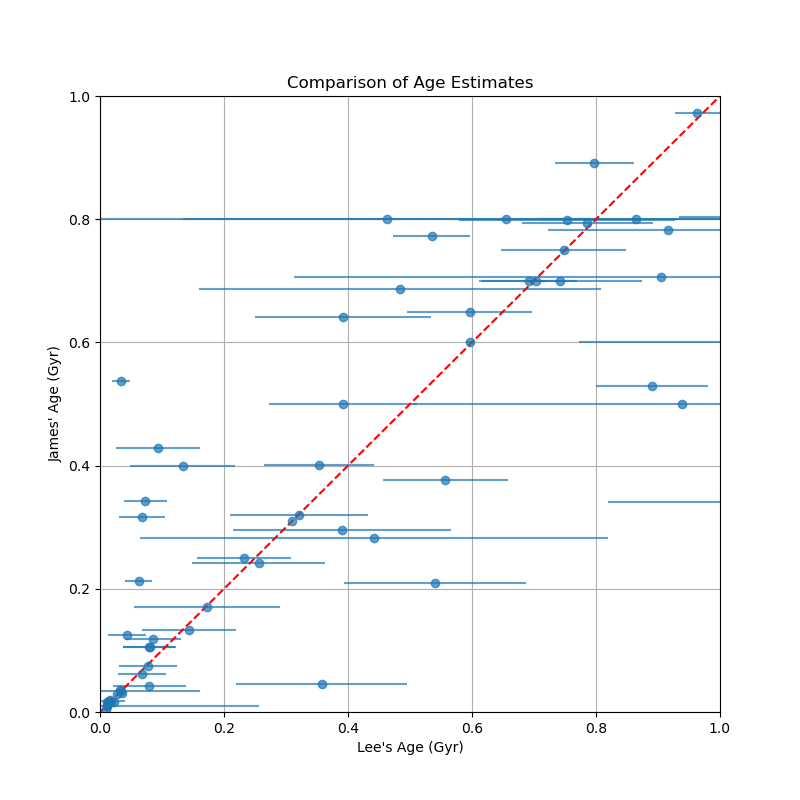
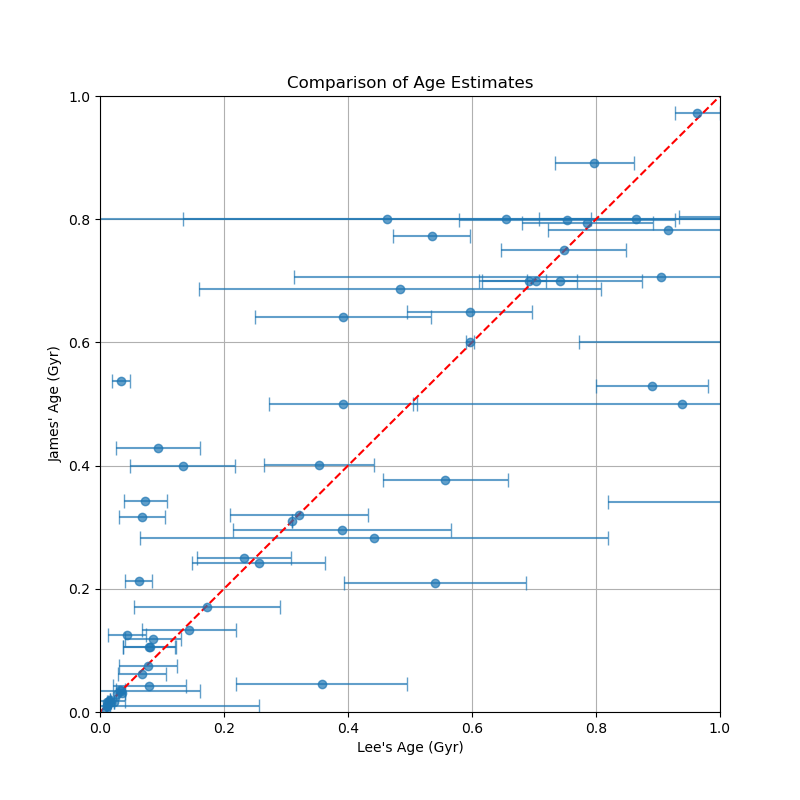
plots

Changed region(s): [[0.125, 0.7812, 0.1875, 0.875], [0.2188, 0.7812, 0.25, 0.8125], [0.2188, 0.6875, 0.25, 0.7188]]

diff --git a/result_plotting.py b/result_plotting.py
@@ -2,10 +2,12 @@ import matplotlib.pyplot as plt
 import numpy as np
 import pandas as pd
 
-results = pd.read_csv("age_fit_results_scipy_20000run.csv")
+results = pd.read_csv("results/age_fit_results_scipy_20000run.csv")
 results = results.drop_duplicates(subset=["starname"], keep="first")
 results = results[results["age_observed"] > 0]
 
+print(results[results["age_gyr"] > 10][["starname", "age_gyr", "age_observed"]])
+print(results[results["age_gyr"] > 6][["starname", "age_gyr", "age_observed"]])
 # --- Load and merge observed age errors ---
 targets = pd.read_csv("mega_target_list.csv")
 age_errors = (targets[["hostname", "st_ageerr1", "st_ageerr2"]]
@@ -29,6 +31,18 @@ err_lower = np.sqrt((sigma_a / b)**2 + (a / b**2 * sigma_b_upper)**2)
 
 results["rel_err_upper"] = err_upper.fillna(0)
 results["rel_err_lower"] = err_lower.fillna(0)
+
+#split on catalog type
+results["catalog"] = results["starname"].str.split("-").str[0]
+print(np.unique(results["catalog"]))
+#print count of each catalog type
+print(results["catalog"].value_counts())
+
+kepler_results = results[results["catalog"] == "Kepler"]
+k2_results = results[results["catalog"] == "K2"]
+toi_results = results[results["catalog"] == "TOI"]
+wasp_results = results[results["catalog"] == "WASP"]
+other_results = results[~results["catalog"].isin(["Kepler", "K2", "TOI", "WASP"])]
 
 # --- Split on [Fe/H] ---
 with_feh    = results[pd.notna(results["feh_observed"])]
@@ -62,18 +76,111 @@ plt.errorbar(
 )   
 plt.plot([0, 1], [0, 1], linestyle="--", color="black", label="Perfect Fit", linewidth=1)
 # Add shaded region for average table age uncertainty
-x_vals = np.linspace(0.01, 1, 100)
+x_vals = np.linspace(0, 1, 100)
 plt.fill_between(x_vals, x_vals - avg_table_uncertainty, x_vals + avg_table_uncertainty, alpha=0.2, color='gray', label=f'Median Table Age Uncertainty (±{avg_table_uncertainty:.3f} Gyr)')
-plt.xlim(0.01, 1)
-plt.ylim(0.01, 1)
 plt.title("Model Age vs. Table Age")
 plt.xlabel("Table Age (Gyr)")
 plt.ylabel("Modeled Age (Gyr)")
+plt.xlim(0., 1)
 plt.legend()
 plt.grid(which="both", alpha=0.3)
 plt.tight_layout()
-plt.savefig("modelvstableageshadedzoomed.png", dpi=150)
+plt.savefig("plots/modelvstableageshaded.png", dpi=150)
 plt.close()
+
+#plot same as above but split on catalog type
+#Plot Table Age vs. Model Age
+plt.figure(figsize=(12, 6))
+plt.errorbar(
+    kepler_results["age_observed"], kepler_results["age_gyr"],
+    yerr=kepler_results["age_gyr_mc_err"], fmt='o', alpha=0.7, capsize=2, elinewidth=0.8,
+    #xerr=with_feh[["st_ageerr2", "st_ageerr1"]].abs().values.T,
+    capthick=0.8, markersize=5, label=f"Kepler n={len(kepler_results)}"
+)   
+plt.errorbar(
+    toi_results["age_observed"], toi_results["age_gyr"],     
+    yerr=toi_results["age_gyr_mc_err"], fmt='o', alpha=0.7, capsize=2, elinewidth=0.8,
+    #xerr=without_feh[["st_ageerr2", "st_ageerr1"]].abs().values.T,
+    capthick=0.8, markersize=5, label=f"TOI n={len(toi_results)}"
+)   
+plt.errorbar(
+    k2_results["age_observed"], k2_results["age_gyr"],     
+    yerr=k2_results["age_gyr_mc_err"], fmt='o', alpha=0.7, capsize=2, elinewidth=0.8,
+    #xerr=without_feh[["st_ageerr2", "st_ageerr1"]].abs().values.T,
+    capthick=0.8, markersize=5, label=f"K2 n={len(k2_results)}"
+)   
+plt.errorbar(
+    wasp_results["age_observed"], wasp_results["age_gyr"],     
+    yerr=wasp_results["age_gyr_mc_err"], fmt='o', alpha=0.7, capsize=2, elinewidth=0.8,
+    #xerr=without_feh[["st_ageerr2", "st_ageerr1"]].abs().values.T,
+    capthick=0.8, markersize=5, label=f"WASP n={len(wasp_results)}"
+)   
+plt.errorbar(
+    other_results["age_observed"], other_results["age_gyr"],     
+    yerr=other_results["age_gyr_mc_err"], fmt='o', alpha=0.7, capsize=2, elinewidth=0.8,
+    #xerr=without_feh[["st_ageerr2", "st_ageerr1"]].abs().values.T,
+    capthick=0.8, markersize=5, label=f"Other n={len(other_results)}"
+)   
+plt.plot([0, 1], [0, 1], linestyle="--", color="black", label="Perfect Fit", linewidth=1)
+# Add shaded region for average table age uncertainty
+x_vals = np.linspace(0, 1, 100)
+plt.fill_between(x_vals, x_vals - avg_table_uncertainty, x_vals + avg_table_uncertainty, alpha=0.2, color='gray', label=f'Median Table Age Uncertainty (±{avg_table_uncertainty:.3f} Gyr)')
+plt.title("Model Age vs. Table Age")
+plt.xlabel("Table Age (Gyr)")
+plt.ylabel("Modeled Age (Gyr)")
+plt.xlim(0., 1)
+plt.legend()
+plt.grid(which="both", alpha=0.3)
+plt.tight_layout()
+plt.savefig("plots/modelvstableageshadedcatalog.png", dpi=150)
+plt.close()
+
+plt.figure(figsize=(12, 6))
+plt.errorbar(
+    kepler_results["age_observed"], kepler_results["age_gyr"],
+    yerr=kepler_results["age_gyr_mc_err"], fmt='o', alpha=0.7, capsize=2, elinewidth=0.8,
+    #xerr=with_feh[["st_ageerr2", "st_ageerr1"]].abs().values.T,
+    capthick=0.8, markersize=5, label=f"Kepler n={len(kepler_results)}"
+)   
+plt.errorbar(
+    toi_results["age_observed"], toi_results["age_gyr"],     
+    yerr=toi_results["age_gyr_mc_err"], fmt='o', alpha=0.7, capsize=2, elinewidth=0.8,
+    #xerr=without_feh[["st_ageerr2", "st_ageerr1"]].abs().values.T,
+    capthick=0.8, markersize=5, label=f"TOI n={len(toi_results)}"
+)   
+plt.errorbar(
+    k2_results["age_observed"], k2_results["age_gyr"],     
+    yerr=k2_results["age_gyr_mc_err"], fmt='o', alpha=0.7, capsize=2, elinewidth=0.8,
+    #xerr=without_feh[["st_ageerr2", "st_ageerr1"]].abs().values.T,
+    capthick=0.8, markersize=5, label=f"K2 n={len(k2_results)}"
+)   
+plt.errorbar(
+    wasp_results["age_observed"], wasp_results["age_gyr"],     
+    yerr=wasp_results["age_gyr_mc_err"], fmt='o', alpha=0.7, capsize=2, elinewidth=0.8,
+    #xerr=without_feh[["st_ageerr2", "st_ageerr1"]].abs().values.T,
+    capthick=0.8, markersize=5, label=f"WASP n={len(wasp_results)}"
+)   
+plt.errorbar(
+    other_results["age_observed"], other_results["age_gyr"],     
+    yerr=other_results["age_gyr_mc_err"], fmt='o', alpha=0.7, capsize=2, elinewidth=0.8,
+    #xerr=without_feh[["st_ageerr2", "st_ageerr1"]].abs().values.T,
+    capthick=0.8, markersize=5, label=f"Other n={len(other_results)}"
+)   
+plt.plot([0, 1], [0, 1], linestyle="--", color="black", label="Perfect Fit", linewidth=1)
+# Add shaded region for average table age uncertainty
+x_vals = np.linspace(0, 1, 100)
+plt.fill_between(x_vals, x_vals - avg_table_uncertainty, x_vals + avg_table_uncertainty, alpha=0.2, color='gray', label=f'Median Table Age Uncertainty (±{avg_table_uncertainty:.3f} Gyr)')
+plt.title("Model Age vs. Table Age")
+plt.xlabel("Table Age (Gyr)")
+plt.ylabel("Modeled Age (Gyr)")
+plt.xlim(0., 1)
+plt.ylim(-0.1, 1.5)
+plt.grid(which="both", alpha=0.3)
+plt.legend()
+plt.tight_layout()
+plt.savefig("plots/modelvstableageshadedzoomed.png", dpi=150)
+plt.close()
+
 
 # --- Plot Relative Age Errors---
 plt.figure(figsize=(12, 6))
@@ -102,7 +209,7 @@ plt.title("Relative Age Error vs. Table Age")
 plt.legend()
 plt.grid(which="both", alpha=0.3)
 plt.tight_layout()
-plt.savefig("relativeageerror.png", dpi=150)
+plt.savefig("plots/relativeageerror.png", dpi=150)
 plt.close()
 
 # --- Plot Relative Age Errors for points with table uncertainty <= 20% ---
@@ -146,7 +253,7 @@ plt.title("Relative Age Error vs. Table Age (Table Uncertainty ≤ 20%)")
 plt.legend()
 plt.grid(which="both", alpha=0.3)
 plt.tight_layout()
-plt.savefig("relativeageerror_filtered.png", dpi=150)
+plt.savefig("plots/relativeageerror_filtered.png", dpi=150)
 plt.close()
 
 # --- Plot Model Age vs. Table Age (filtered for table uncertainty <= 20%) ---
@@ -176,5 +283,5 @@ plt.ylabel("Modeled Age (Gyr)")
 plt.legend()
 plt.grid(which="both", alpha=0.3)
 plt.tight_layout()
-plt.savefig("modelvstableageshadedzoomed_filtered.png", dpi=150)
+plt.savefig("plots/modelvstableageshadedzoomed_filtered.png", dpi=150)
 plt.close()

diff --git a/comparison.py b/comparison.py
@@ -3,7 +3,7 @@ import numpy as np
 import pandas as pd
 import matplotlib.pyplot as plt
 #My results
-results = pd.read_csv("age_fit_results_scipy_20000run.csv")
+results = pd.read_csv("results/age_fit_results_scipy_20000run.csv")
 results = results.drop_duplicates(subset=["starname"], keep="first")
 """ #Taylor's results
 taylor_results = pd.read_csv("k2_star_ages.csv")
@@ -26,7 +26,7 @@ plt.grid()
 plt.show()
 plt.close() """
 #James' results
-james_results = pd.read_csv("interpolate_20260409_125607_candidate_fits.csv")
+james_results = pd.read_csv("results/interpolate_20260409_125607_candidate_fits.csv")
 james_results = james_results.drop_duplicates(subset=["hostname"], keep="first")
 #convert age_yr to age_gyr
 james_results["age_gyr"] = james_results["age_yr"] / 1e9
@@ -34,24 +34,20 @@ james_results["age_gyr"] = james_results["age_yr"] / 1e9
 merged_results = pd.merge(results, james_results, left_on="starname", right_on="hostname", suffixes=('_mine', '_james'))
 #print column names of merged results
 print(merged_results.columns)
+print(len(merged_results))
 #plot my age vs. James' age
 plt.figure(figsize=(8, 8))
-plt.errorbar(merged_results["age_gyr_mine"], merged_results["age_gyr_james"], xerr = merged_results["age_gyr_mc_err"], fmt = "o", alpha=0.7)
+plt.errorbar(merged_results["age_gyr_mine"], merged_results["age_gyr_james"], xerr = merged_results["age_gyr_mc_err"], fmt = "o", alpha=0.7, capsize=5)
 plt.plot([0, 14], [0, 14], 'r--')  # 1:1 line
 plt.xlabel("Lee's Age (Gyr)")
 plt.ylabel("James' Age (Gyr)")
 plt.title("Comparison of Age Estimates")
+plt.xscale("log")
+plt.yscale("log")
 plt.xlim(0, 1)
 plt.ylim(0, 1)
 plt.grid()
-plt.savefig("lee_vs_james_age_comparison.png")
-plt.close()
-
-#corner of age_gyr_mine, age_gyr_james, age_observered
-import corner
-corner_data = merged_results[["age_gyr_mine", "age_gyr_james", "age_observed"]].dropna()
-corner.corner(corner_data, labels=["Lee's Age (Gyr)", "James' Age (Gyr)", "Observed Age (Gyr)"], show_titles=True)
-plt.savefig("corner_plot.png")
+plt.savefig("plots/lee_vs_james_age_comparison_log.png")
 plt.close()
 
 #print stars where lee's age is less than 0.2 Gyr but James' age is greater than 0.2 Gyr
